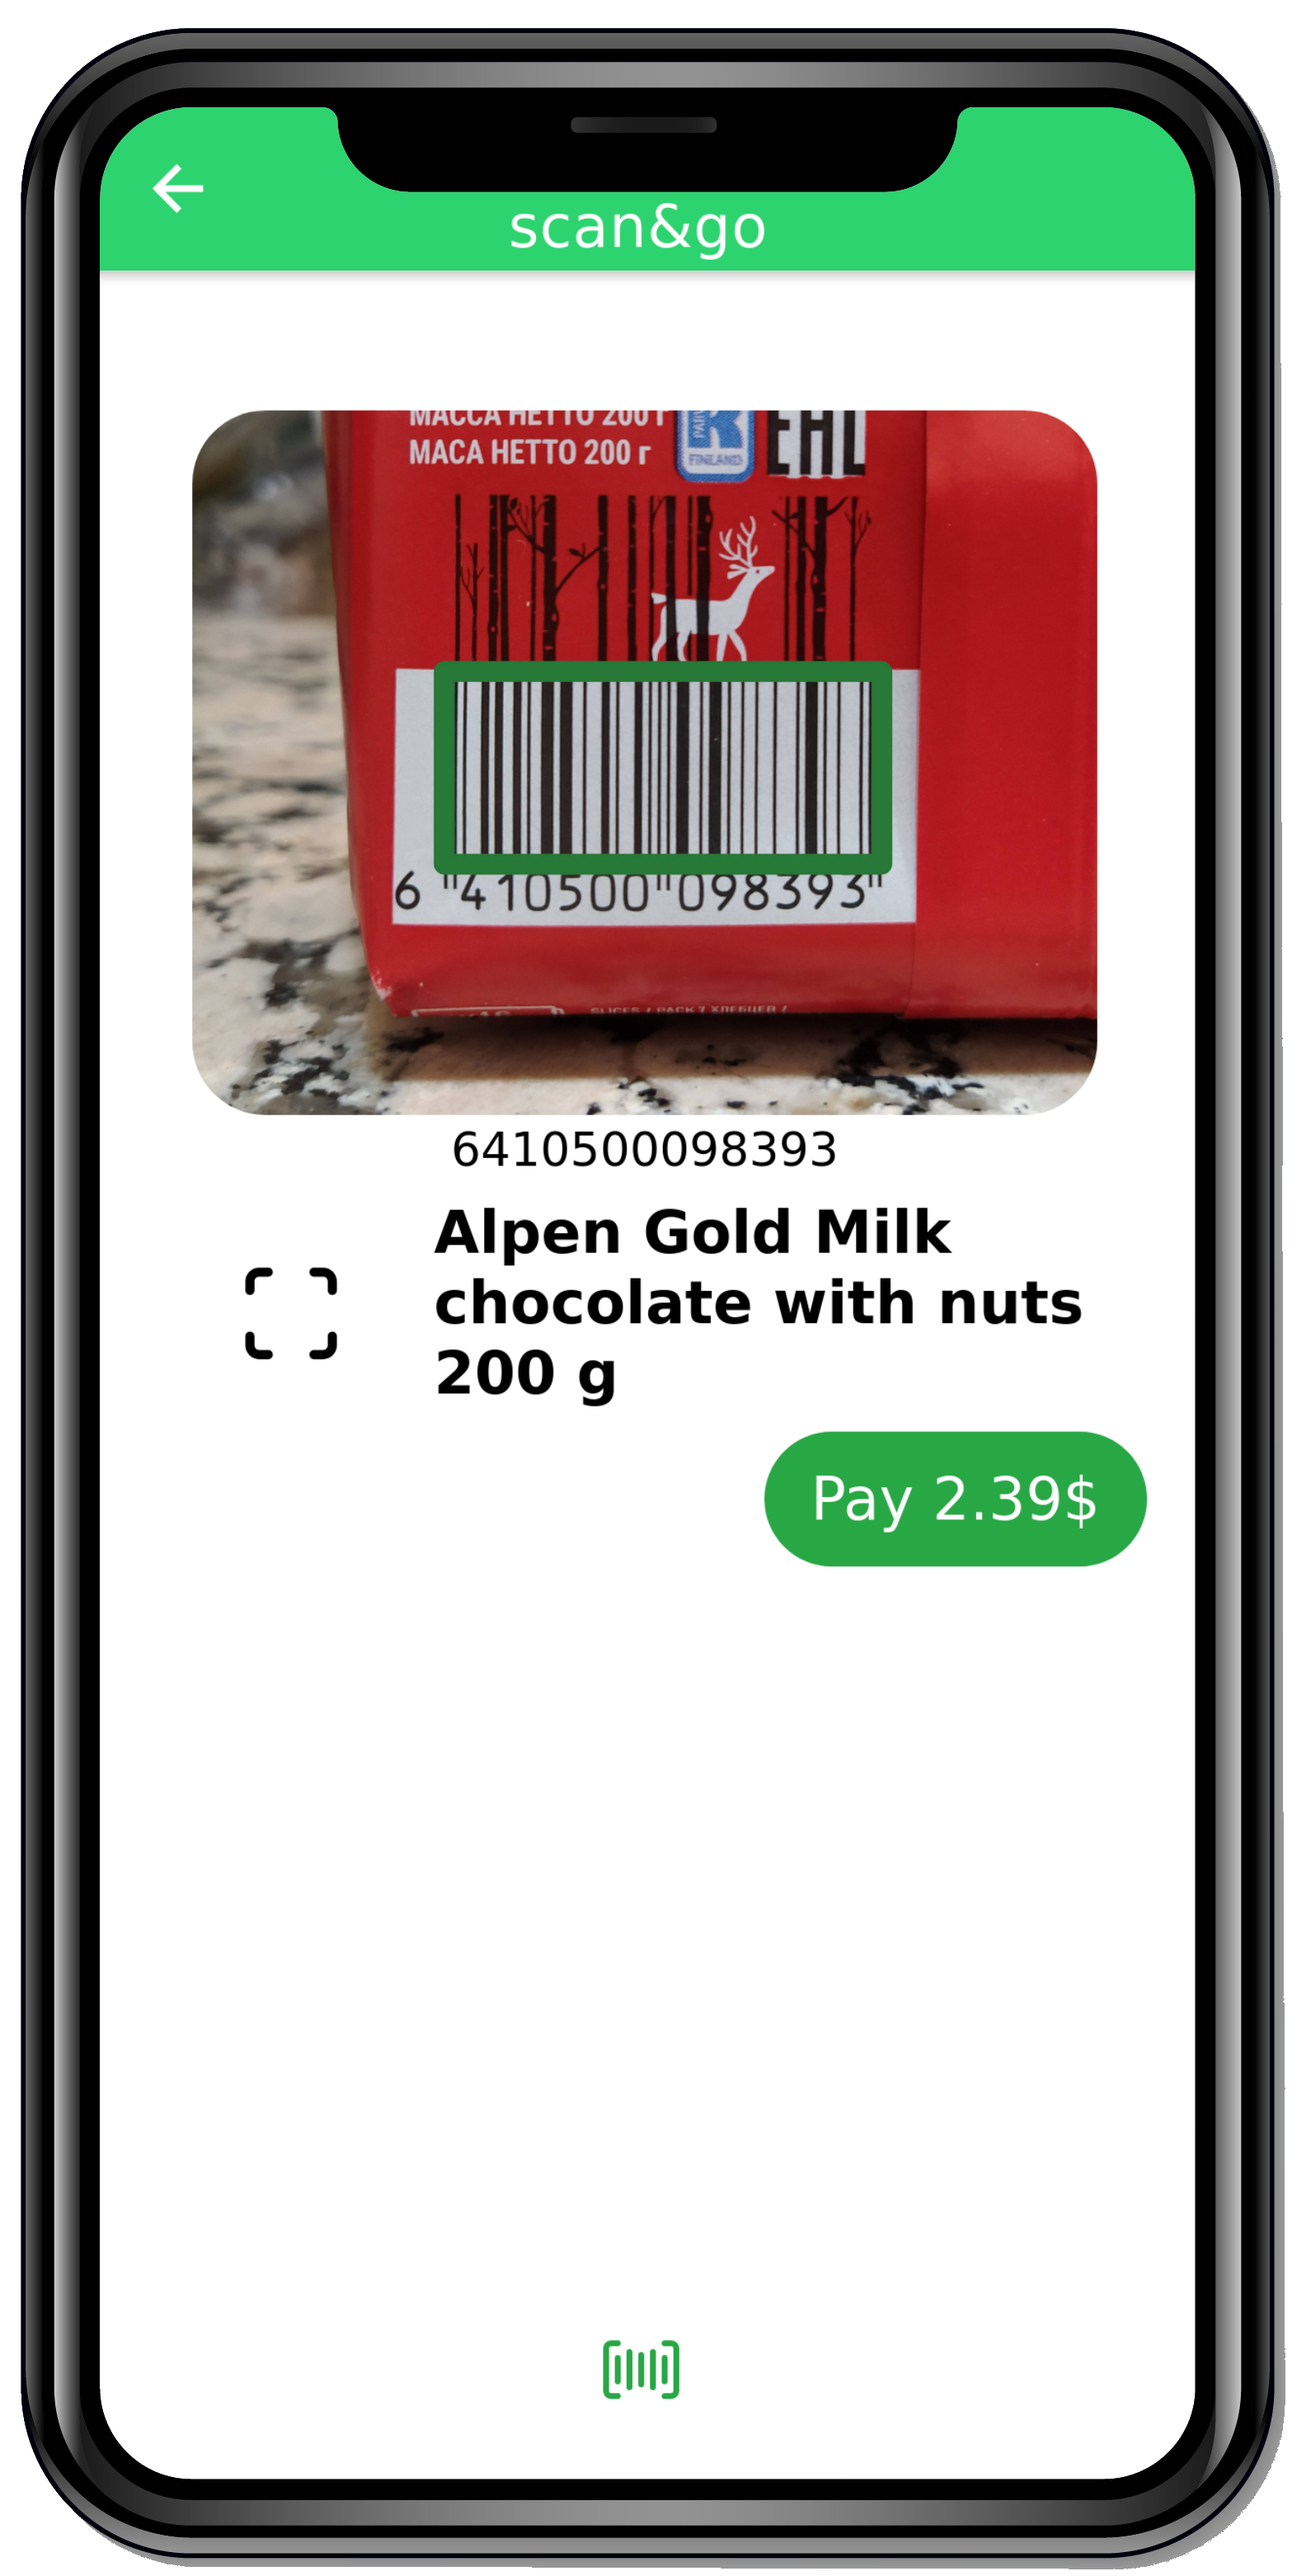
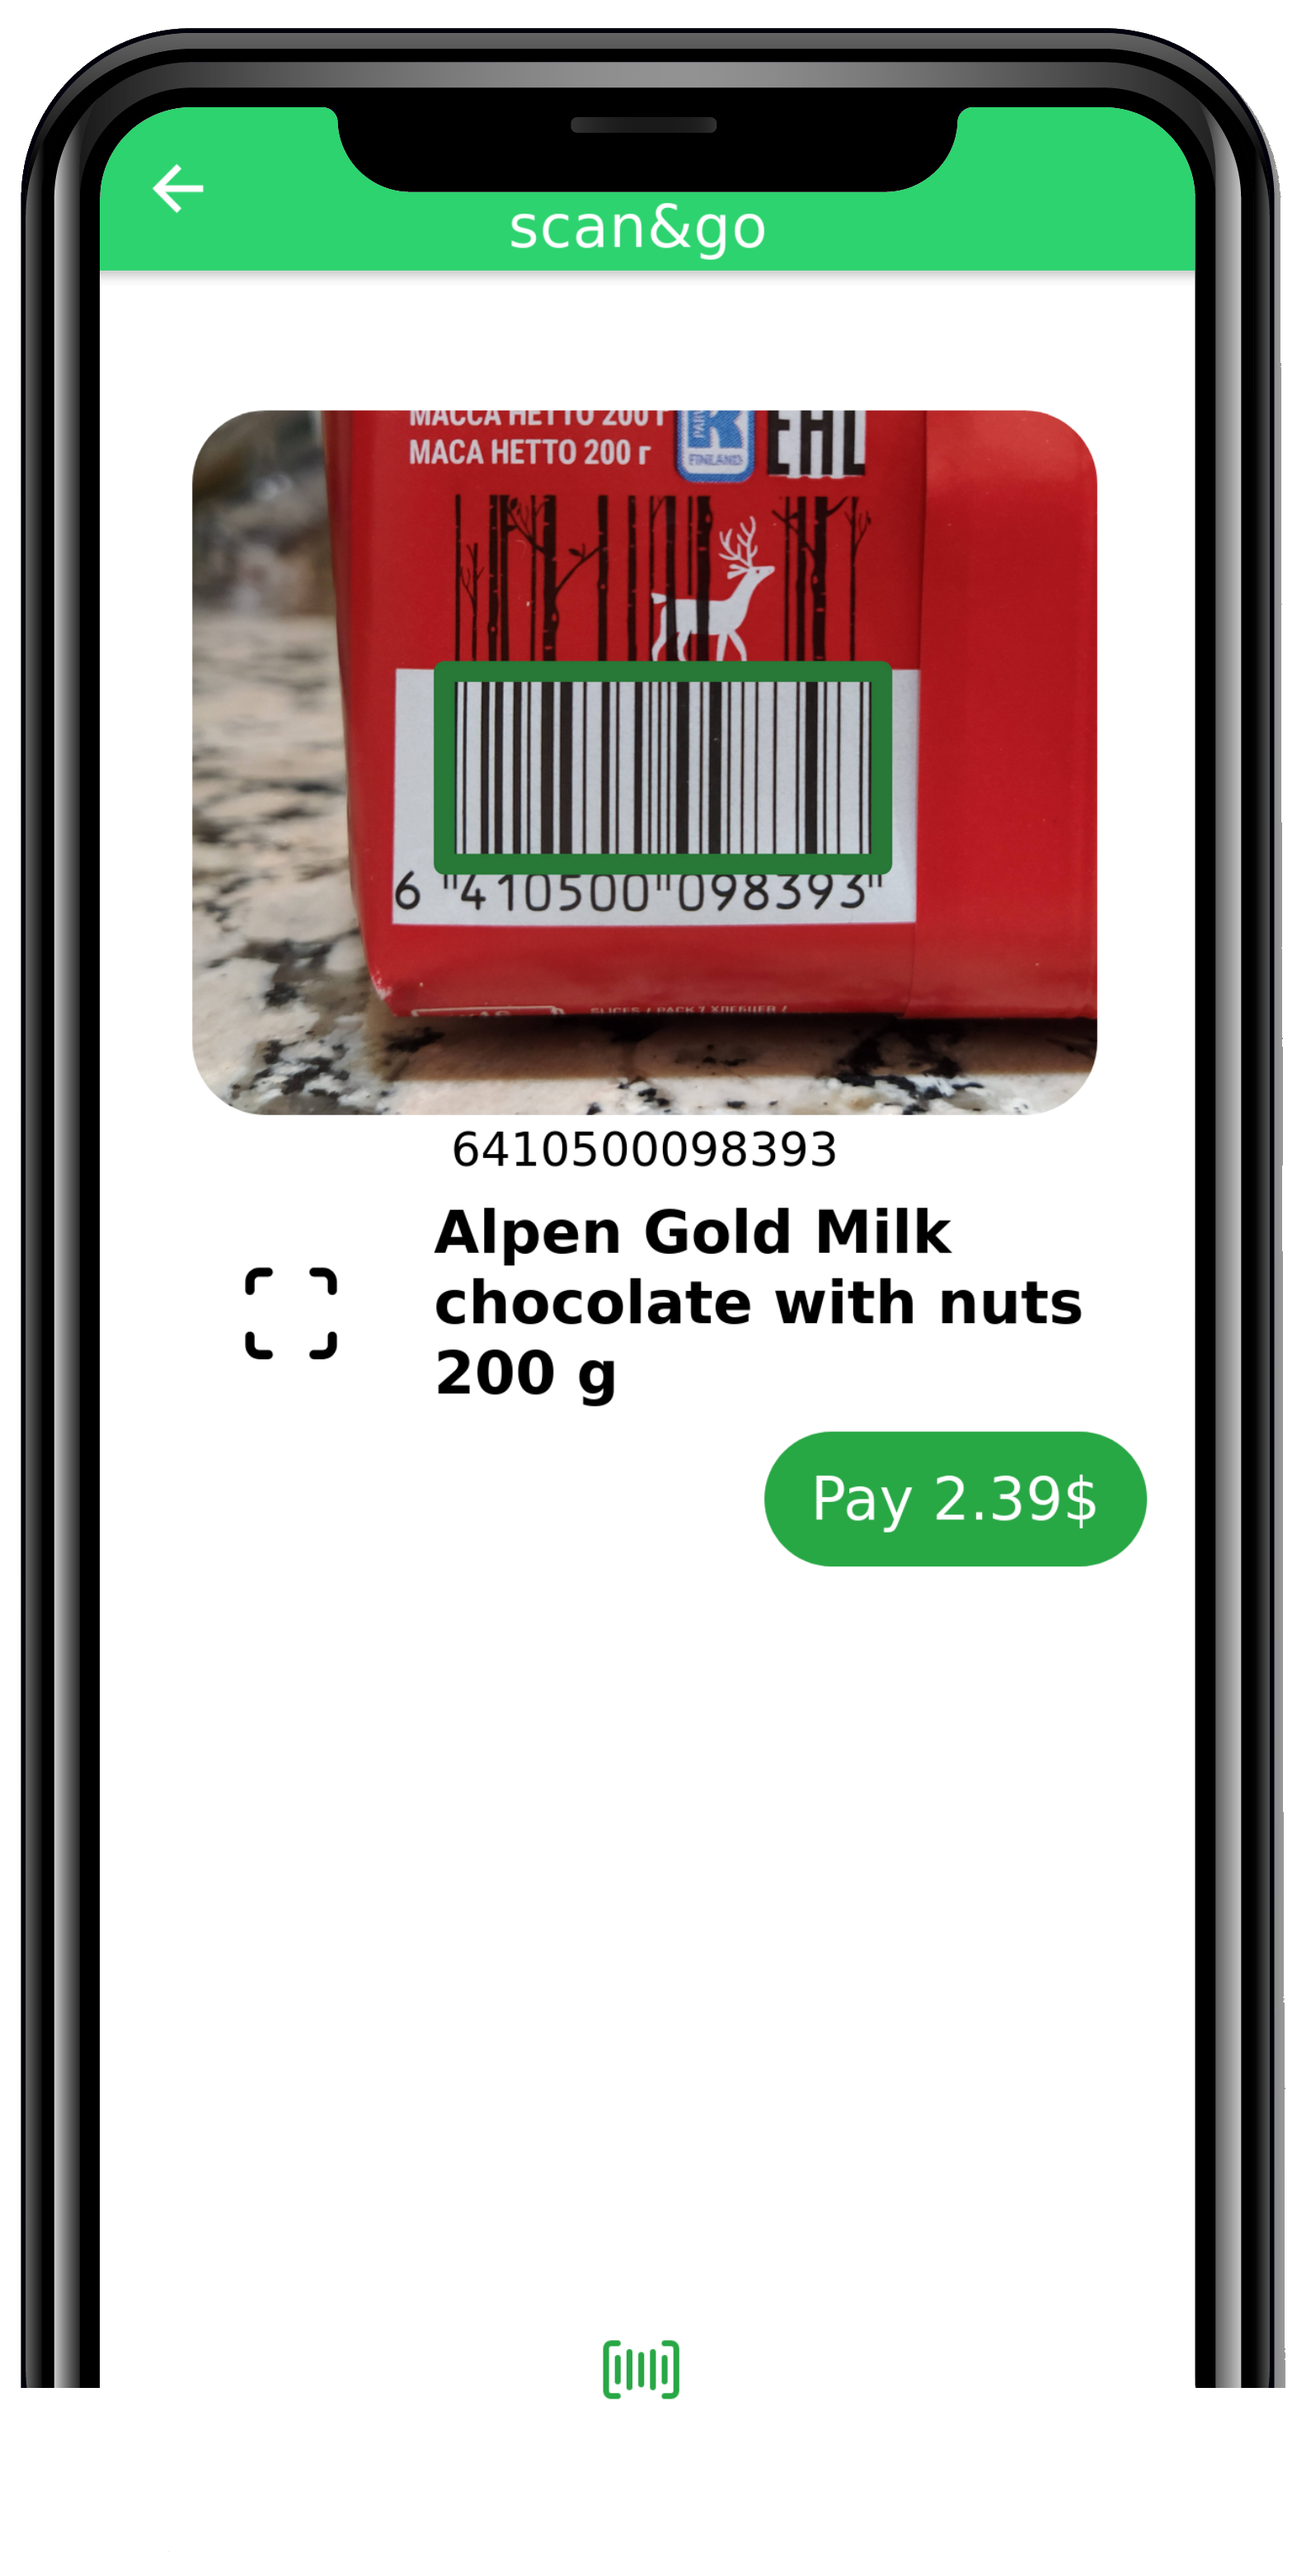
Scan&Go

Changed region(s): [[0.0, 0.9007, 0.9862, 1.0]]

diff --git a/index.html b/index.html
@@ -154,7 +154,7 @@
         </div>
         <div class="col-lg-9 my-auto">
           <h2 class="text-white">
-            <b>Split2Pay</b>
+            <b>Split2Pay <sub><sub>FaaS</sub></sub></b>
           </h2>
           <p class="text-white text-center h2">
           <ul class="h2">
@@ -172,7 +172,7 @@
       <div class="row">
         <div class="col-lg-9 my-auto">
           <h2 class="">
-            <b>Scan&Go</b>
+            <b>Scan&Go <sub><sub> FaaS </sub></b></b>
           </h2>
           <p class="text-white text-left h2">
             Bardcode scanner function integration with products database on demand
@@ -182,7 +182,7 @@
           <div class="feature-item">
             <div class="device-container">
               <div class="device-mockup iphone6_plus portrait white">
-                <div class="device screen">
+                <div class="device">
                   <!-- <div class="screen"> -->
                     <!-- Demo image for screen mockup, you can put an image here, some HTML, an animation, video, or anything else! -->
                     <img src="static/img/scan&go.png" class="img-fluid" alt="">
@@ -218,7 +218,7 @@
 
         <div class="col-lg-9 my-auto">
           <h2 class="text-white">
-            <b>ProductFlow</b>
+            <b>ProductFlow <sub><sub>SaaS</sub></sub></b></b>
           </h2>
           <p class="text-grey text-center h2">
           <ul class="h2">
